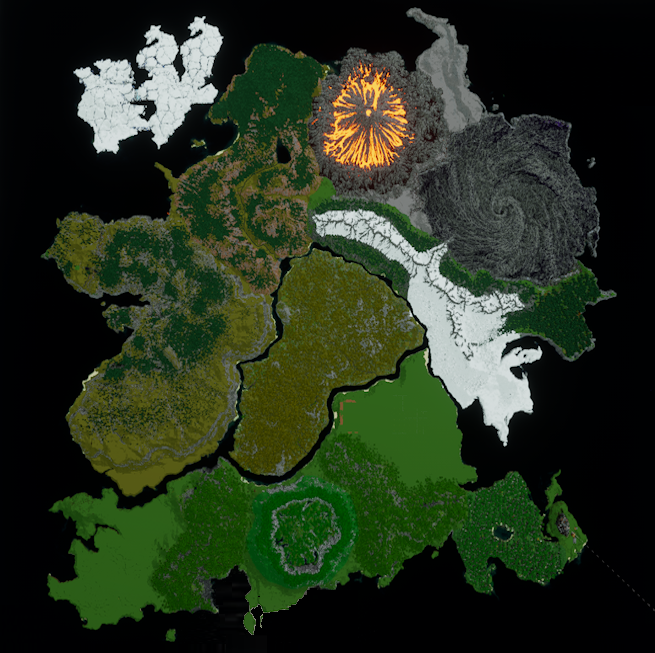
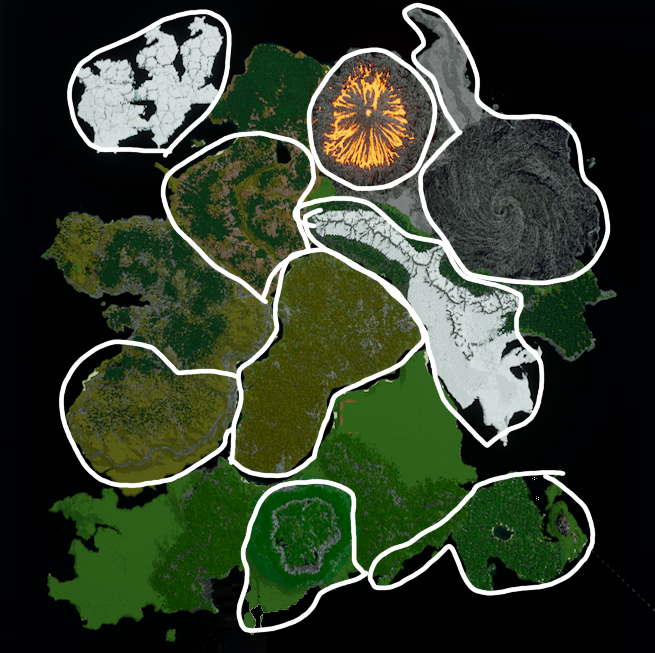
Add files via upload

diff --git a/patch_20260701-1.html b/patch_20260701-1.html
@@ -26,6 +26,7 @@
             - 유적 점프맵 난이도 하향 조정<br>
 			<span class="indent">- 유적 4번 : 콩콩이 미로 -> 1칸 점프 미로</span><br>
 			<span class="indent">- 유적 7번 : 상행/하행 버니업 6연속 구간 -> 일반 버니업 6연속</span><br>
+			- 전이석 51개 추가<br>
         </p>
     </div>
     <br>

diff --git a/map.html b/map.html
@@ -50,6 +50,8 @@
         <div id="map-container">
             <img src="map_image.png" alt="오리진피아 메인 월드맵">
         </div>
+		<p> - 흰색으로 표시된 부분이 주로 몬스터를 사냥하는 영역입니다</p>
+		<p> - 그 외의 곳은 탐험해보시길 바랍니다</p>
     </div>
 
     <!-- 전이석 섹션 -->
